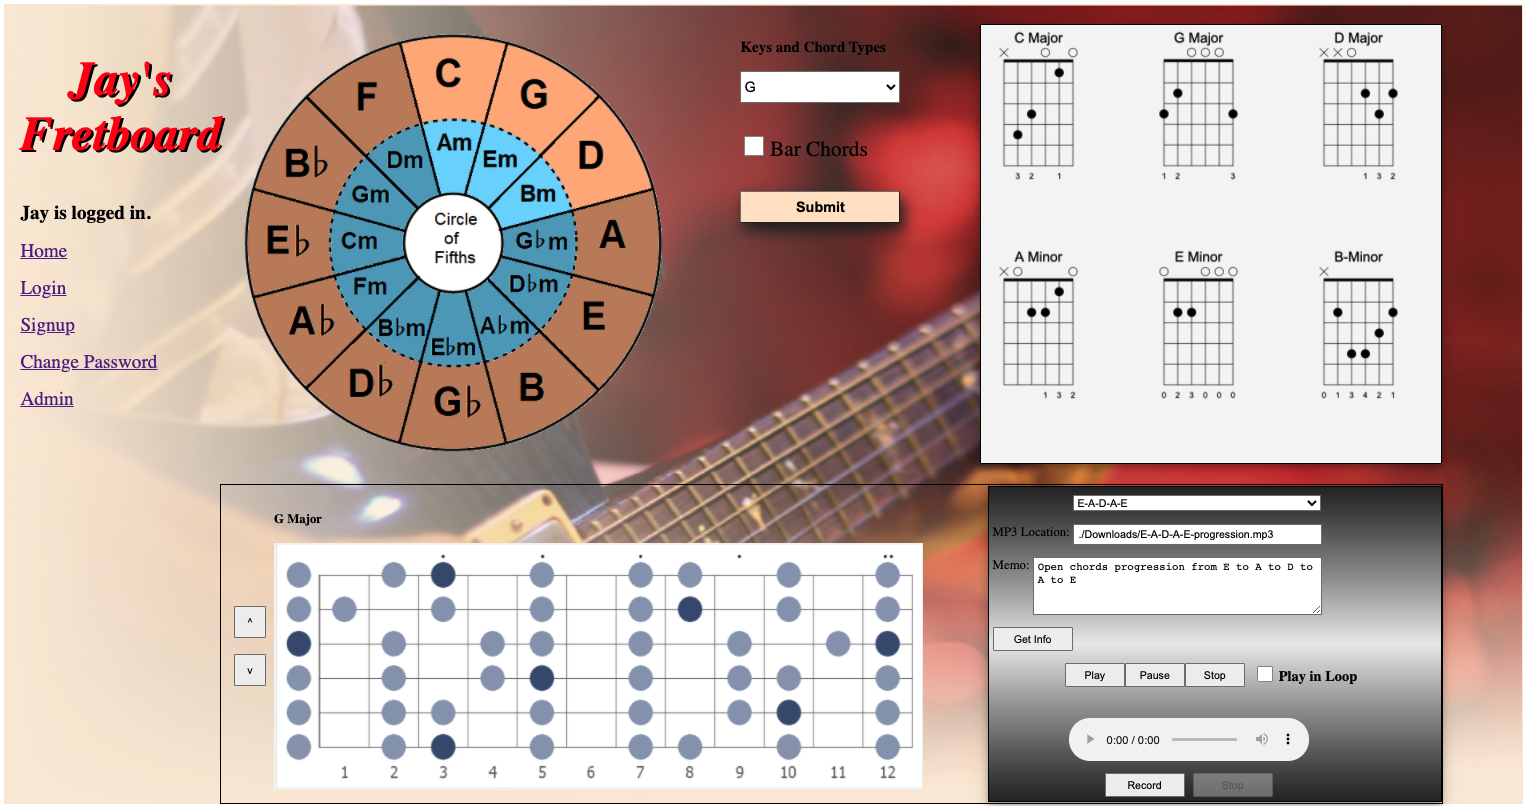
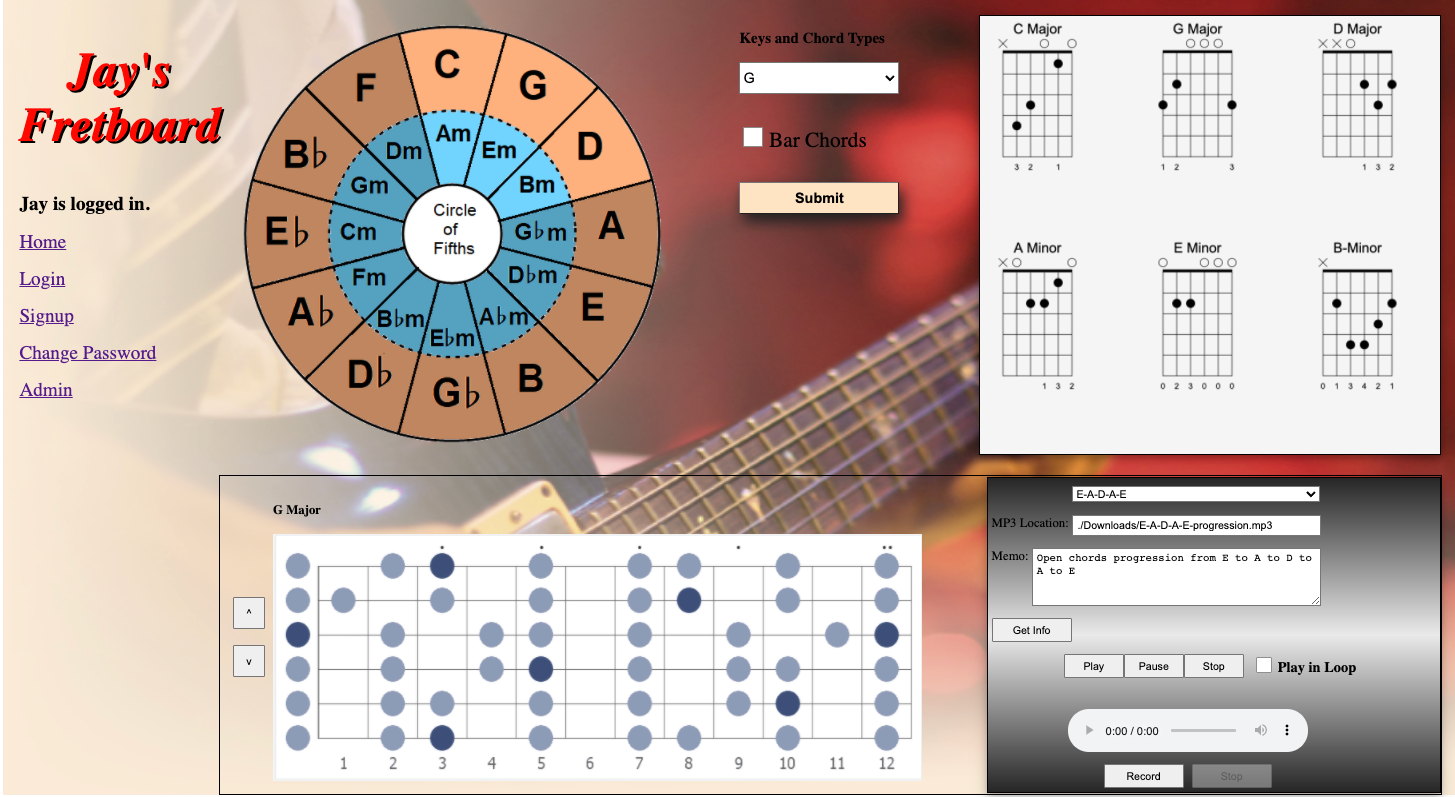
styling

diff --git a/projects.html b/projects.html
@@ -34,13 +34,11 @@
             >Jay's Fretboard - A Full Stack Development Project</a
           ><br /><br />      
       <div className="imgLeft">
-        <div>
           <img
             id="imgFretboard"
             src="./img/JaysFretboard.png"
             alt="Jays Fretboard"
           />
-        </div>
         <div>
           <p>
             Backend - Node.js application written in Javascript, HTML, CSS,
